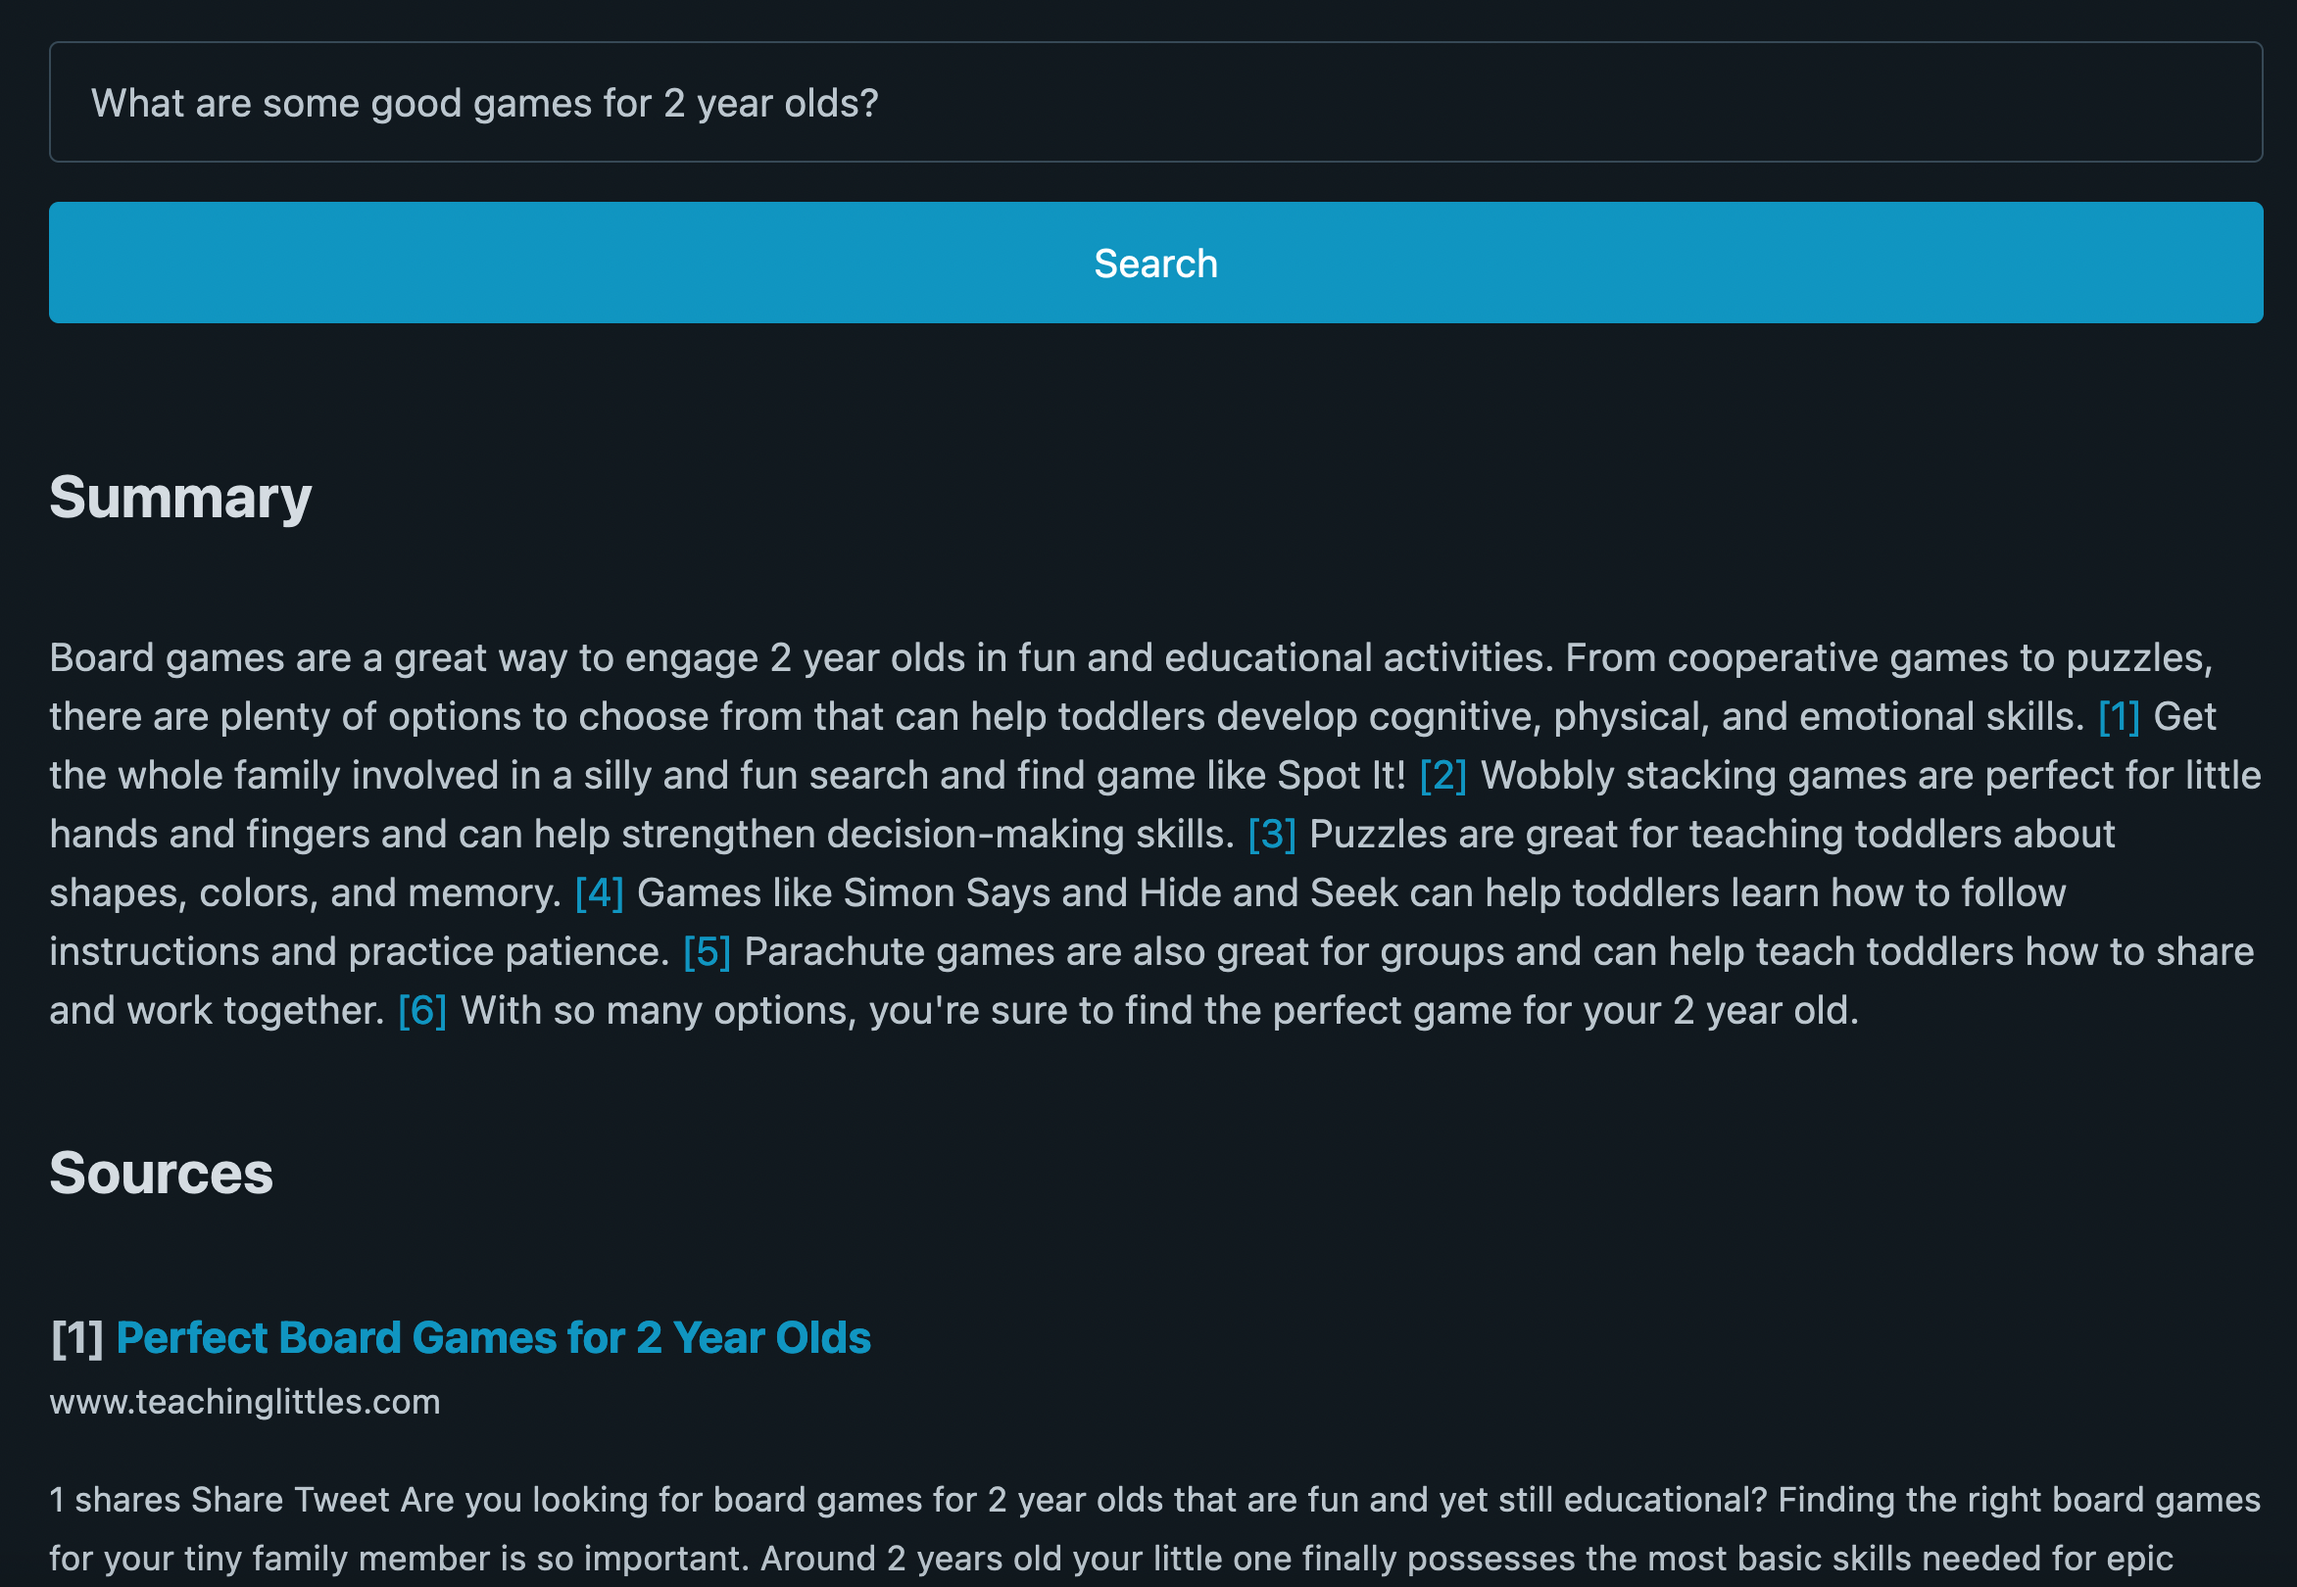
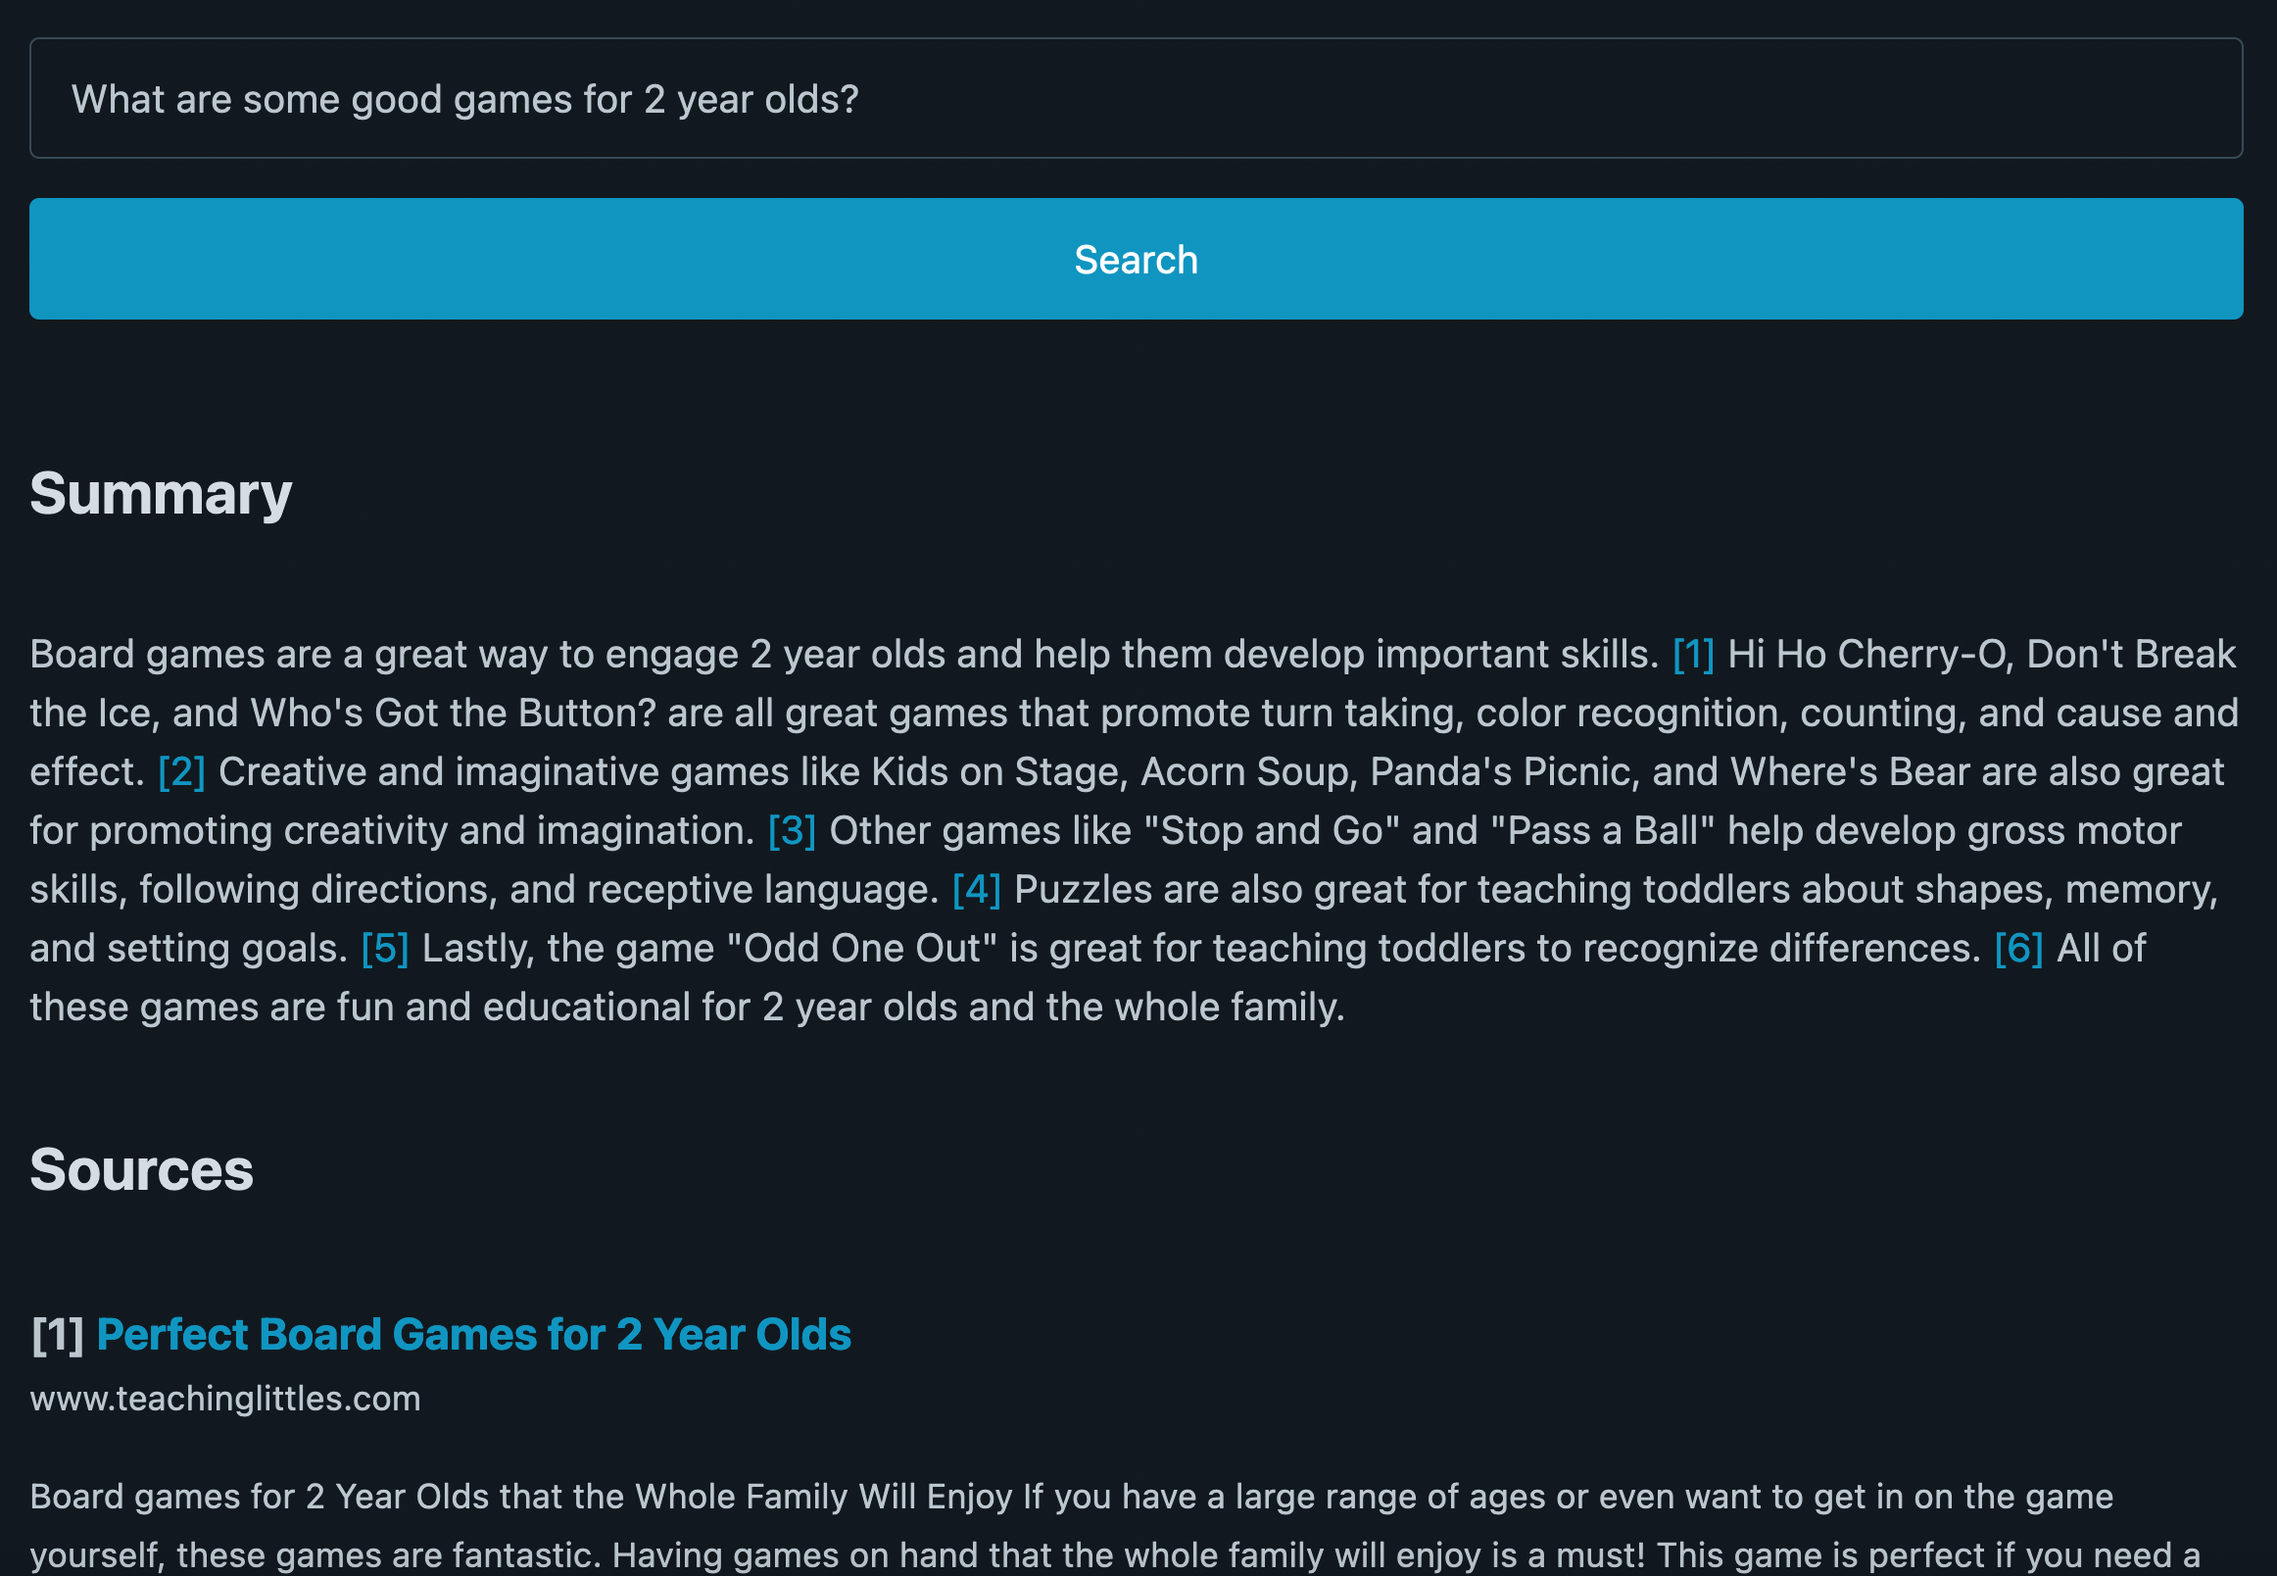
Convert to use sentence transformers

diff --git a/text.py b/text.py
@@ -3,15 +3,14 @@ from newspaper.configuration import Configuration
 from newspaper.extractors import ContentExtractor
 from newspaper.cleaners import DocumentCleaner
 import settings
-import spacy
 from typing import NamedTuple
 from nltk.tokenize import sent_tokenize
 from bs4 import BeautifulSoup
 from itertools import repeat, chain
 import math
+from sentence_transformers import SentenceTransformer, util
 
-nlp = spacy.load("en_core_web_md")
-
+model = SentenceTransformer('multi-qa-MiniLM-L6-cos-v1')
 
 class Chunk(NamedTuple):
     text: str
@@ -74,12 +73,13 @@ def split_chunks(text):
             chunks.append(chunk)
             chunk = sent
             chunk_len = sent_len
-    chunks.append(chunk)
+    if chunk_len > settings.CHUNK_MIN_LENGTH:
+        chunks.append(chunk)
     return chunks
 
 
 def similarity_score(doc1, doc2):
-    return doc1.similarity(doc2)
+    return util.cos_sim(doc1, doc2)
 
 def find_likely_chunk(link, query_doc):
     if not link.html:
@@ -92,9 +92,10 @@ def find_likely_chunk(link, query_doc):
 
     chunks = []
     chunked = split_chunks(text)
-    chunk_docs = nlp.pipe(chunked)
-    for chunk, chunk_doc in zip(chunked, chunk_docs):
-        chunks.append(Chunk(chunk, similarity_score(query_doc, chunk_doc), link.link, title))
+    chunk_docs = model.encode(chunked)
+    similarities = util.cos_sim(query_doc, chunk_docs)[0].tolist()
+    for (chunk, similarity) in zip(chunked, similarities):
+        chunks.append(Chunk(chunk, similarity, link.link, title))
     sorted_chunks = sorted(chunks, key=lambda x: x.similarity, reverse=True)
     return sorted_chunks[:max(1, math.floor(settings.CHUNK_LIMIT / 2))]
 
@@ -109,7 +110,7 @@ def filter_list(links):
 
 def find_likely_chunks(links, query):
     links = filter_list(links)
-    query_doc = nlp(query)
+    query_doc = model.encode(query)
     chunks = map(find_likely_chunk, links, repeat(query_doc))
     chunks = [c for c in chunks if c]
     chunks = list(chain.from_iterable(chunks))

diff --git a/summary.py b/summary.py
@@ -12,7 +12,7 @@ Instructions:
 # Generate a comprehensive and informative answer (but no more than 100 words) for a given question solely based on the provided web Search Results (URL and Summary).
 # You must only use information from the provided search results. Use an unbiased and journalistic tone.
 # Use this current date: {date}
-# Combine relevant search results together into a coherent answer. Do not repeat text.
+# Combine search results together into a coherent answer. Do not repeat text.
 # Cite one search result per sentence using [${index}]. Only cite the most relevant results that answer the question accurately.
 # Format:
 # Question: `${question text}`

diff --git a/app.py b/app.py
@@ -19,9 +19,8 @@ def run_search(query):
     results = search(query)
     results = filter_links(results)
     chunks = find_likely_chunks(results, query)
-    print(time.time() - start)
     summary_text = get_summary(query, chunks)
-    print(time.time() - start)
+    print(f"Runtime: {time.time() - start}")
     template_results = []
     for i, chunk in enumerate(chunks):
         data = {

diff --git a/settings.py b/settings.py
@@ -23,6 +23,8 @@ MAX_TRACKER_URLS = 3
 LANGUAGE = "en"
 # Maximum length in words for context chunks to be used in prompt
 CHUNK_MAX_LENGTH = 256
+# Minimum length in words for context chunks to be used in prompt
+CHUNK_MIN_LENGTH = 128
 # Number of chunks to use when generating prompt
 CHUNK_LIMIT = 6
 

diff --git a/README.md b/README.md
@@ -2,16 +2,16 @@
 
 Snip search combines Google results and GPT-3 to give concise answers to search queries, with citations.
 
+## Screenshots
+
+| Games        | Recommendations |
+|--------------|-----------------|
+| ![Search 1](images/screen1.png) | ![Search 2](images/screen2.png)    |
+
 ## Example
 
 Question: `What are alternatives to FastAPI?`
 
 Response: ```FastAPI and Flask are two popular Python web frameworks used to build APIs and web applications. FastAPI is a full-stack framework that offers everything you need to build an API, while Flask is a micro framework that doesn't provide all the features that FastAPI does. FastAPI focuses on reliability, security, and simplicity, and is designed to build APIs easily and quickly. Flask is less well-documented and is slower than FastAPI, but is useful when you want to prototype an idea quickly or build a simple web application. [1] WSGI is a Python standard specifically written for web applications and servers to interface with each other, while ASGI was introduced by the inventors of FastAPI and is a specification to build event-driven, asynchronous web applications.```
-
-## Screenshots
-
-            |  Recommendations
-:-------------------------:|:-------------------------:
-![Search 1](images/screen1.png) | ![Search 2](images/screen2.png)
 
 Run `python -m spacy download en_core_web_md`.  Run `nltk.download('punkt')`.
